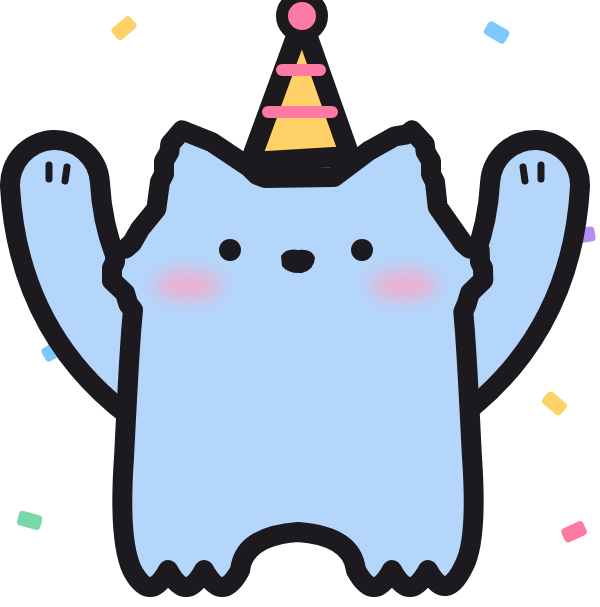
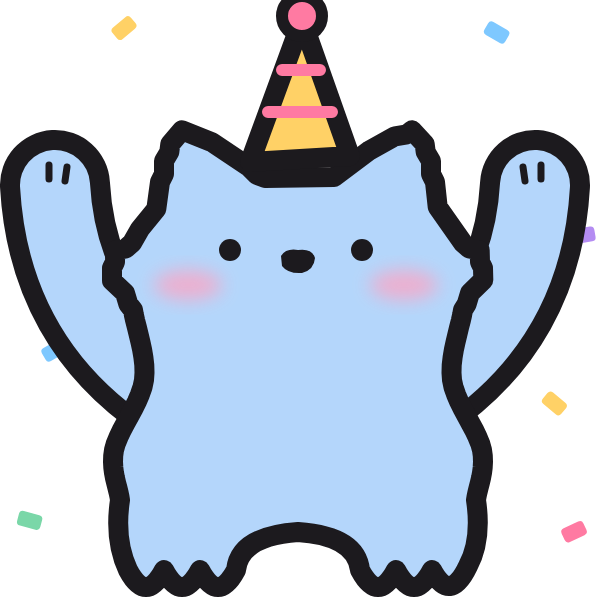
Felemelt karnál derék és csípő ív a test oldalán
Claude-Session: https://claude.ai/code/session_0147rMSUhfh921N6BdCdXTQF

Changed region(s): [[0.54, 0.5041, 0.84, 0.9786], [0.15, 0.5338, 0.45, 0.9786]]

diff --git a/sw.js b/sw.js
@@ -1,6 +1,6 @@
 // Offline mód: a Kék Cica internet nélkül is működik.
 // Ha új verziót töltesz fel, emeld meg a VERZIO számot.
-const VERZIO = "kekcica-v9";
+const VERZIO = "kekcica-v10";
 const FAJLOK = [
     "./", "index.html", "style.css", "app.js", "beallitasok.js", "manifest.json",
     "apple-touch-icon.png", "ikon-192.png", "ikon-512.png",

diff --git a/forras/uj_cicak_rajzolo.py b/forras/uj_cicak_rajzolo.py
@@ -21,19 +21,37 @@ def vonal(d, fill="none", w=V):
 
 ALJ = 410  # ettől lefelé kézzel rajzolt lábak jönnek
 
-def sima_oldal(lanc, oldalak):
-    """Ahol a kar felfelé áll, ott a test oldalán nincs mancs-dudor: az oldalt kisimítjuk."""
-    Y0, X0, X1 = 220, 63, 52  # a dudor kezdete és az oldal x-e fent / lent (bal oldalon)
+def _profil():
+    """Bal oldali test-profil felemelt karhoz: váll -> derék (befelé) -> csípő (kifelé) -> láb."""
+    pts = [(200, 62), (220, 63), (290, 74), (360, 44), (ALJ, 50), (ALJ + 20, 52)]  # (y, x)
     ki = []
-    for x, y in lanc:
-        for o in oldalak:
-            bal = o == "bal"
-            if (x < 228) == bal and Y0 <= y <= ALJ:
-                t = (y - Y0) / (ALJ - Y0)
-                xb = X0 + (X1 - X0) * (t ** 0.8)
-                x = round(xb if bal else 456 - xb, 1)
-        ki.append([x, y])
-    return ki
+    for i in range(1, len(pts) - 2):
+        p0, p1, p2, p3 = pts[i - 1], pts[i], pts[i + 1], pts[i + 2]
+        for k in range(10):
+            t = k / 10
+            y = 0.5 * (2*p1[0] + (-p0[0] + p2[0])*t + (2*p0[0] - 5*p1[0] + 4*p2[0] - p3[0])*t*t + (-p0[0] + 3*p1[0] - 3*p2[0] + p3[0])*t**3)
+            x = 0.5 * (2*p1[1] + (-p0[1] + p2[1])*t + (2*p0[1] - 5*p1[1] + 4*p2[1] - p3[1])*t*t + (-p0[1] + 3*p1[1] - 3*p2[1] + p3[1])*t**3)
+            ki.append((round(y, 1), round(x, 1)))
+    ki.append((ALJ, 50))
+    return ki  # felülről lefelé
+
+def sima_oldal(lanc, oldalak):
+    """Ahol a kar felfelé áll, ott a test oldalán nincs mancs-dudor, helyette derék és csípő ív."""
+    Y0 = 220
+    prof = _profil()
+    for o in oldalak:
+        bal = o == "bal"
+        resz = lambda p: (p[0] < 228) == bal and Y0 <= p[1] <= ALJ
+        idx = [i for i, p in enumerate(lanc) if resz(p)]
+        if not idx:
+            continue
+        i0, i1 = idx[0], idx[-1]
+        uj = [[x if bal else 456 - x, y] for y, x in prof]
+        # a lánc bal oldalon alulról felfelé, jobb oldalon felülről lefelé halad
+        if bal:
+            uj = uj[::-1]
+        lanc = lanc[:i0] + uj + lanc[i1 + 1:]
+    return lanc
 
 def test_ut(sy=1, dy=0, sima=()):
     """Az eredeti körvonal (fej, fülek, oldalak) + kézzel rajzolt cicalábak alul."""
